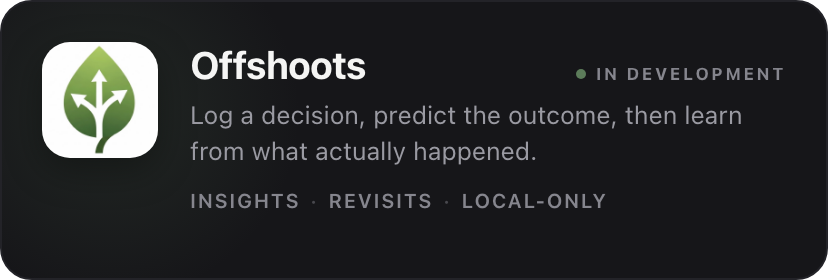
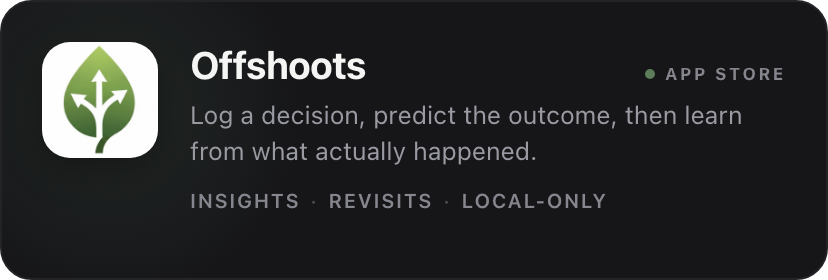
Link Tucked and Offshoots to App Store

Changed region(s): [[0.6944, 0.2286, 0.9662, 0.2857]]

diff --git a/README.md b/README.md
@@ -22,7 +22,7 @@ Every app follows one rule: **do one thing well, then stop.** Native SwiftUI, lo
 <!-- bento:start -->
 <p align="center"><a href="https://apps.apple.com/app/id6755057084"><img src="docs/bento/tile-aislewise.png?v=a8bb1a9d" width="414" alt="AisleWise — A grocery list that starts with your camera. Scan items, track spend by store."></a><a href="https://apps.apple.com/app/id6755186421"><img src="docs/bento/tile-tasked.png?v=43fa6d95" width="414" alt="Task(ed) — Say what you need to do. Dates, priorities, and lists sort themselves out."></a></p>
 <p align="center"><a href="https://apps.apple.com/app/id6754781167"><img src="docs/bento/tile-everypaw.png?v=3080d548" width="414" alt="EveryPaw — Medications, meals, weight, and vet records for your pets, in one place."></a><a href="https://apps.apple.com/app/id6806063498"><img src="docs/bento/tile-weather-in-words.png?v=e8dae006" width="414" alt="Weather in Words — Weather written in prose instead of numbers and icons."></a></p>
-<p align="center"><a href="https://github.com/loweffortgeoff/Bookmark-Collections"><img src="docs/bento/tile-tucked.png?v=b7ff78fa" width="414" alt="Tucked — A local-first bookmark manager for iPhone, iPad, and Mac."></a><a href="https://github.com/loweffortgeoff/Offshoots"><img src="docs/bento/tile-offshoots.png?v=f2b294ef" width="414" alt="Offshoots — Log a decision, predict the outcome, then learn from what actually happened."></a></p>
+<p align="center"><a href="https://apps.apple.com/us/app/tucked-stuff-for-whenever/id6792490401"><img src="docs/bento/tile-tucked.png?v=aed820c7" width="414" alt="Tucked — A local-first bookmark manager for iPhone, iPad, and Mac."></a><a href="https://apps.apple.com/us/app/offshoots/id6757363128"><img src="docs/bento/tile-offshoots.png?v=ec386f39" width="414" alt="Offshoots — Log a decision, predict the outcome, then learn from what actually happened."></a></p>
 <!-- bento:end -->
 
 ### How I build
